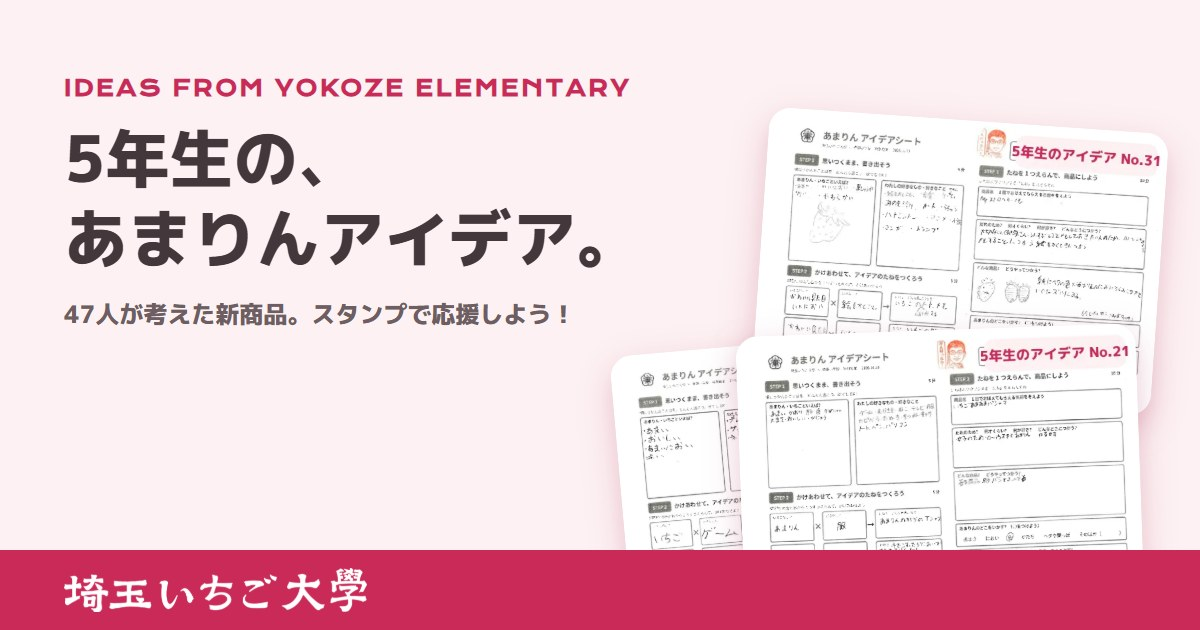
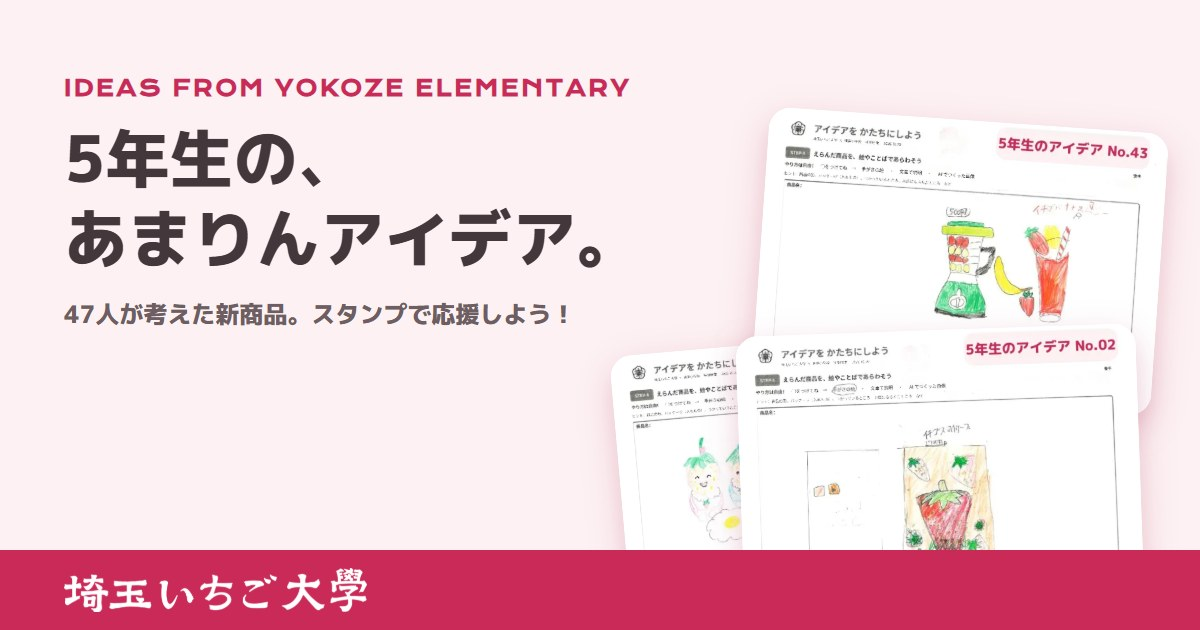
ichigo: 横瀬小5年生の「商品の絵」シート47枚を掲載（友だちの書き込み・サインを1枚ずつ消去）
- 一覧は絵のシートをメインに、拡大表示で「商品の絵／アイデアシート」を切り替え
- 絵のシートが白紙の2件（No.18・19）はアイデアシートを表示
- お知らせのカードとOGPも絵のシートに

Changed region(s): [[0.5242, 0.181, 0.9867, 0.8746]]

diff --git a/ichigo/js/ideas.js b/ichigo/js/ideas.js
@@ -1,11 +1,15 @@
 /*
  * みんなのアイデア：カード一覧・拡大表示・スタンプ（いいね／ほしい！／おいしそう）
  *   <div id="ideas" data-set="yokoze2026" data-count="47" data-dir="images/yokoze/"></div>
+ * 一覧は「絵のシート（-b）」をメインに表示し、拡大表示で「アイデアシート（-a）」に切り替えられる。
+ *   絵のシートが白紙の回（data-blank="18,19"）はアイデアシートを表示する。
  * スタンプの数は api/reactions.php に保存。押したものはこのブラウザに記録し、二重に押せないようにする。
  */
 (() => {
   const root = document.getElementById('ideas'); if (!root) return;
   const SET = root.dataset.set, N = +root.dataset.count, DIR = root.dataset.dir;
+  const BLANK = new Set((root.dataset.blank || '').split(',').filter(Boolean).map(Number));
+  const main = (id) => BLANK.has(id) ? 'a' : 'b';
   const API = 'api/reactions.php';
   const STAMPS = [
     { key: 'like', icon: '👍', label: 'いいね' },
@@ -23,7 +27,7 @@
     const id = i + 1;
     return `<li class="idea-card" data-id="${id}">
       <button type="button" class="idea-thumb" data-open="${id}" aria-label="アイデア No.${pad(id)} を大きく見る">
-        <img loading="lazy" decoding="async" width="640" height="452" src="${DIR}idea${pad(id)}-a-s.webp" alt="5年生のアイデアシート No.${pad(id)}">
+        <img loading="lazy" decoding="async" width="640" height="452" src="${DIR}idea${pad(id)}-${main(id)}-s.webp" alt="5年生のアイデア No.${pad(id)}（${main(id) === 'b' ? '商品の絵' : 'アイデアシート'}）">
       </button>
       <div class="idea-meta"><span class="label-en text-ichigo">No.${pad(id)}</span></div>
       <div class="idea-stamps" role="group" aria-label="No.${pad(id)} にスタンプを送る">
@@ -71,9 +75,18 @@
   const dlg = document.getElementById('idea-dialog');
   if (dlg) {
     const img = dlg.querySelector('img'), cap = dlg.querySelector('[data-cap]');
-    let cur = 1;
-    const show = (id) => { cur = (id + N - 1) % N + 1; img.src = `${DIR}idea${pad(cur)}-a.webp`; img.alt = `5年生のアイデアシート No.${pad(cur)}`; cap.textContent = `No.${pad(cur)} / ${N}`; };
-    root.addEventListener('click', (e) => { const t = e.target.closest('[data-open]'); if (!t) return; show(+t.dataset.open); dlg.showModal(); });
+    const tabs = [...dlg.querySelectorAll('[data-side]')];
+    let cur = 1, side = 'b';
+    const paintDlg = () => {
+      const s = BLANK.has(cur) ? 'a' : side;
+      img.src = `${DIR}idea${pad(cur)}-${s}.webp`;
+      img.alt = `5年生のアイデア No.${pad(cur)}（${s === 'b' ? '商品の絵' : 'アイデアシート'}）`;
+      cap.textContent = `No.${pad(cur)} / ${N}`;
+      tabs.forEach(t => { t.setAttribute('aria-pressed', String(t.dataset.side === s)); t.disabled = BLANK.has(cur) && t.dataset.side === 'b'; });
+    };
+    const show = (id) => { cur = (id + N - 1) % N + 1; paintDlg(); };
+    tabs.forEach(t => t.addEventListener('click', () => { side = t.dataset.side; paintDlg(); }));
+    root.addEventListener('click', (e) => { const t = e.target.closest('[data-open]'); if (!t) return; side = 'b'; show(+t.dataset.open); dlg.showModal(); });
     dlg.querySelector('[data-prev]').addEventListener('click', () => show(cur - 1));
     dlg.querySelector('[data-next]').addEventListener('click', () => show(cur + 1));
     dlg.querySelector('[data-close]').addEventListener('click', () => dlg.close());

diff --git a/ichigo/ideas.html b/ichigo/ideas.html
@@ -96,6 +96,10 @@
     .idea-dialog-bar button { width:44px; height:44px; border-radius:999px; border:1.5px solid #F4C9D5; background:#fff; color:#C92A57; font-size:24px; line-height:1; }
     .idea-dialog-bar .idea-dialog-close { position:absolute; top:12px; right:12px; }
     .idea-dialog-inner { position:relative; }
+    .idea-dialog-tabs { display:flex; justify-content:center; gap:8px; padding:14px 12px 0; }
+    .idea-dialog-tabs button { padding:8px 18px; border-radius:999px; border:1.5px solid #F4C9D5; background:#fff; color:#43373B; font-weight:700; font-size:14px; }
+    .idea-dialog-tabs button[aria-pressed="true"] { background:#C92A57; border-color:#C92A57; color:#fff; }
+    .idea-dialog-tabs button:disabled { opacity:.35; }
     @media (prefers-reduced-motion: reduce) { .stamp.pop { animation:none; } .idea-thumb img { transition:none; } }
   </style>
 </head>
@@ -140,7 +144,7 @@
       <p class="body-jp text-sm sm:text-base text-mute">
         2026年10月、横瀬小学校の5年生と「いちご大學」の授業をしました。<br class="hidden sm:inline">
         テーマは「あまりんで、新しい商品を考えよう」。<br class="hidden sm:inline">
-        47人が考えたアイデアシートを紹介します。
+        47人が考えた商品の絵とアイデアシートを紹介します。
       </p>
     </div>
   </section>
@@ -159,9 +163,9 @@
   <!-- アイデア一覧 -->
   <section class="bg-white pb-24 sm:pb-32">
     <div class="max-w-7xl mx-auto px-4 sm:px-6">
-      <div id="ideas" data-set="yokoze2026" data-count="47" data-dir="images/yokoze/"><p class="topic-empty">読み込み中…</p></div>
+      <div id="ideas" data-set="yokoze2026" data-count="47" data-dir="images/yokoze/" data-blank="18,19"><p class="topic-empty">読み込み中…</p></div>
       <p class="text-xs text-mute text-center mt-12 leading-relaxed">
-        ※ 子どもたちの名前は伏せて、番号で紹介しています。シートの画像は、学校の了承を得て掲載しています。<br class="hidden sm:inline">
+        ※ 子どもたちの名前と、友だちの書き込み（サイン）は伏せて、番号で紹介しています。シートの画像は、学校の了承を得て掲載しています。<br class="hidden sm:inline">
         ※ スタンプはひとつのアイデアにつき、各1回ずつ押せます。
       </p>
     </div>
@@ -171,6 +175,10 @@
   <dialog id="idea-dialog" class="idea-dialog" aria-label="アイデアシートを拡大">
     <div class="idea-dialog-inner">
       <img src="" alt="" width="1600" height="1131">
+      <div class="idea-dialog-tabs" role="group" aria-label="表示するシート">
+        <button type="button" data-side="b" aria-pressed="true">商品の絵</button>
+        <button type="button" data-side="a" aria-pressed="false">アイデアシート</button>
+      </div>
       <div class="idea-dialog-bar">
         <button type="button" data-prev aria-label="前のアイデア">‹</button>
         <span data-cap class="label-en"></span>

diff --git a/ichigo/events.html b/ichigo/events.html
@@ -154,7 +154,7 @@
   <section class="bg-white pt-20 sm:pt-24">
     <div class="max-w-5xl mx-auto px-6">
       <a href="ideas.html" class="group grid grid-cols-1 md:grid-cols-2 gap-6 md:gap-10 items-center bg-petal rounded-3xl p-6 sm:p-8 hover:bg-blush transition-colors">
-        <div class="overflow-hidden rounded-2xl bg-white img-zoom"><img loading="lazy" decoding="async" width="640" height="452" src="images/yokoze/idea31-a-s.webp" alt="横瀬小学校5年生のアイデアシート" class="w-full h-auto block"></div>
+        <div class="overflow-hidden rounded-2xl bg-white img-zoom"><img loading="lazy" decoding="async" width="640" height="452" src="images/yokoze/idea43-b-s.webp" alt="横瀬小学校5年生が描いた商品の絵" class="w-full h-auto block"></div>
         <div>
           <p class="label-en text-ichigo mb-3">IDEAS FROM YOKOZE ELEMENTARY</p>
           <h2 class="h-display text-2xl sm:text-3xl text-ink mb-4">5年生の、あまりんアイデア。</h2>
